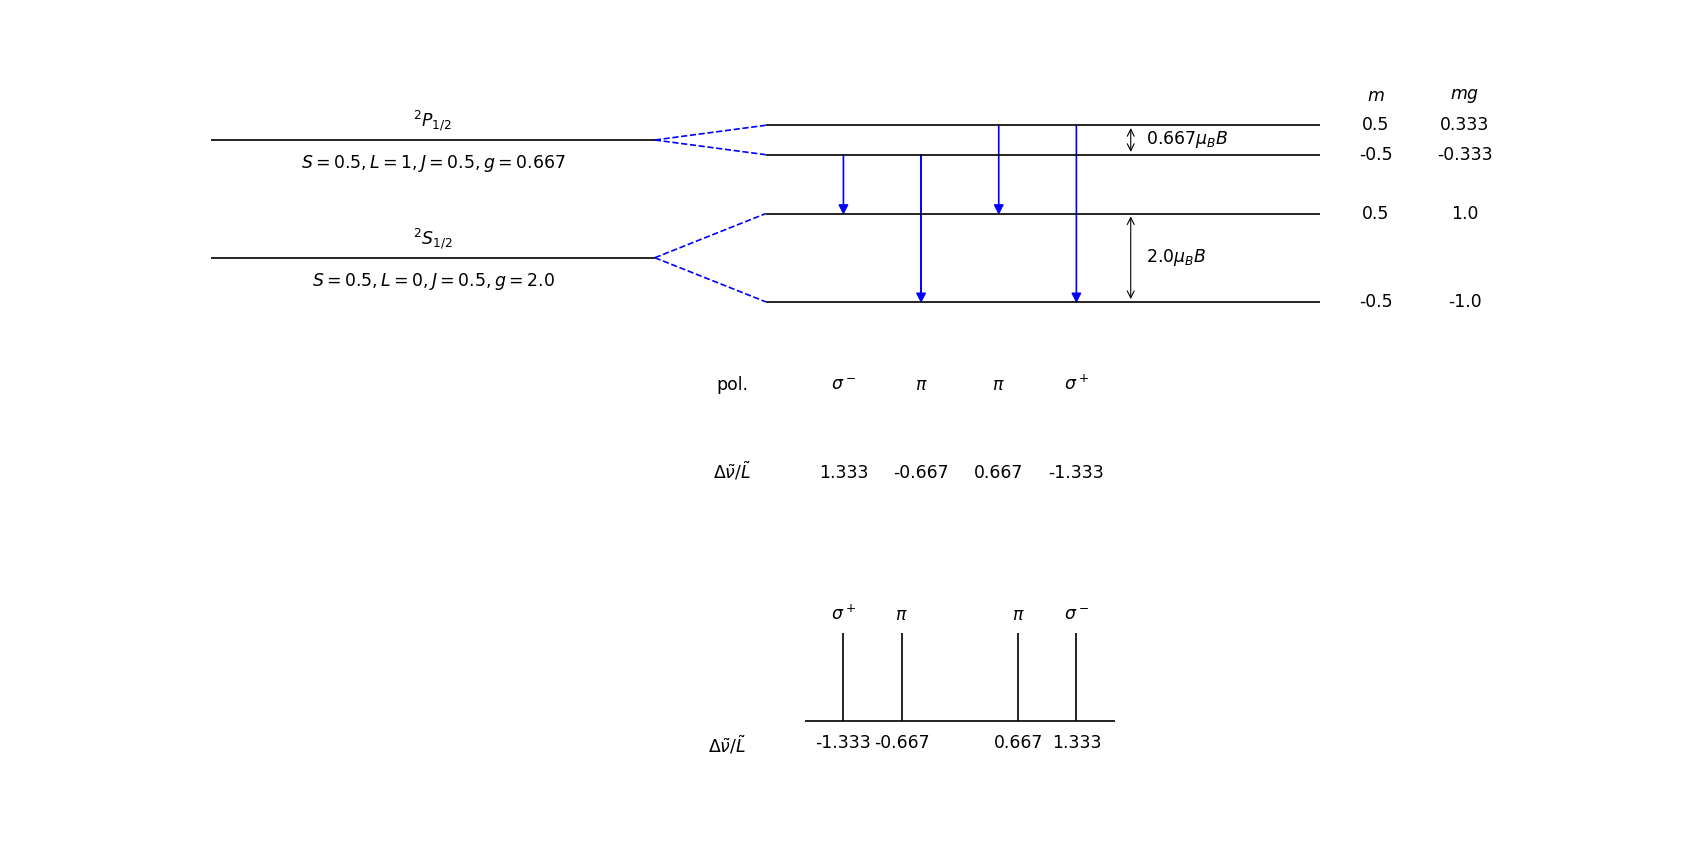
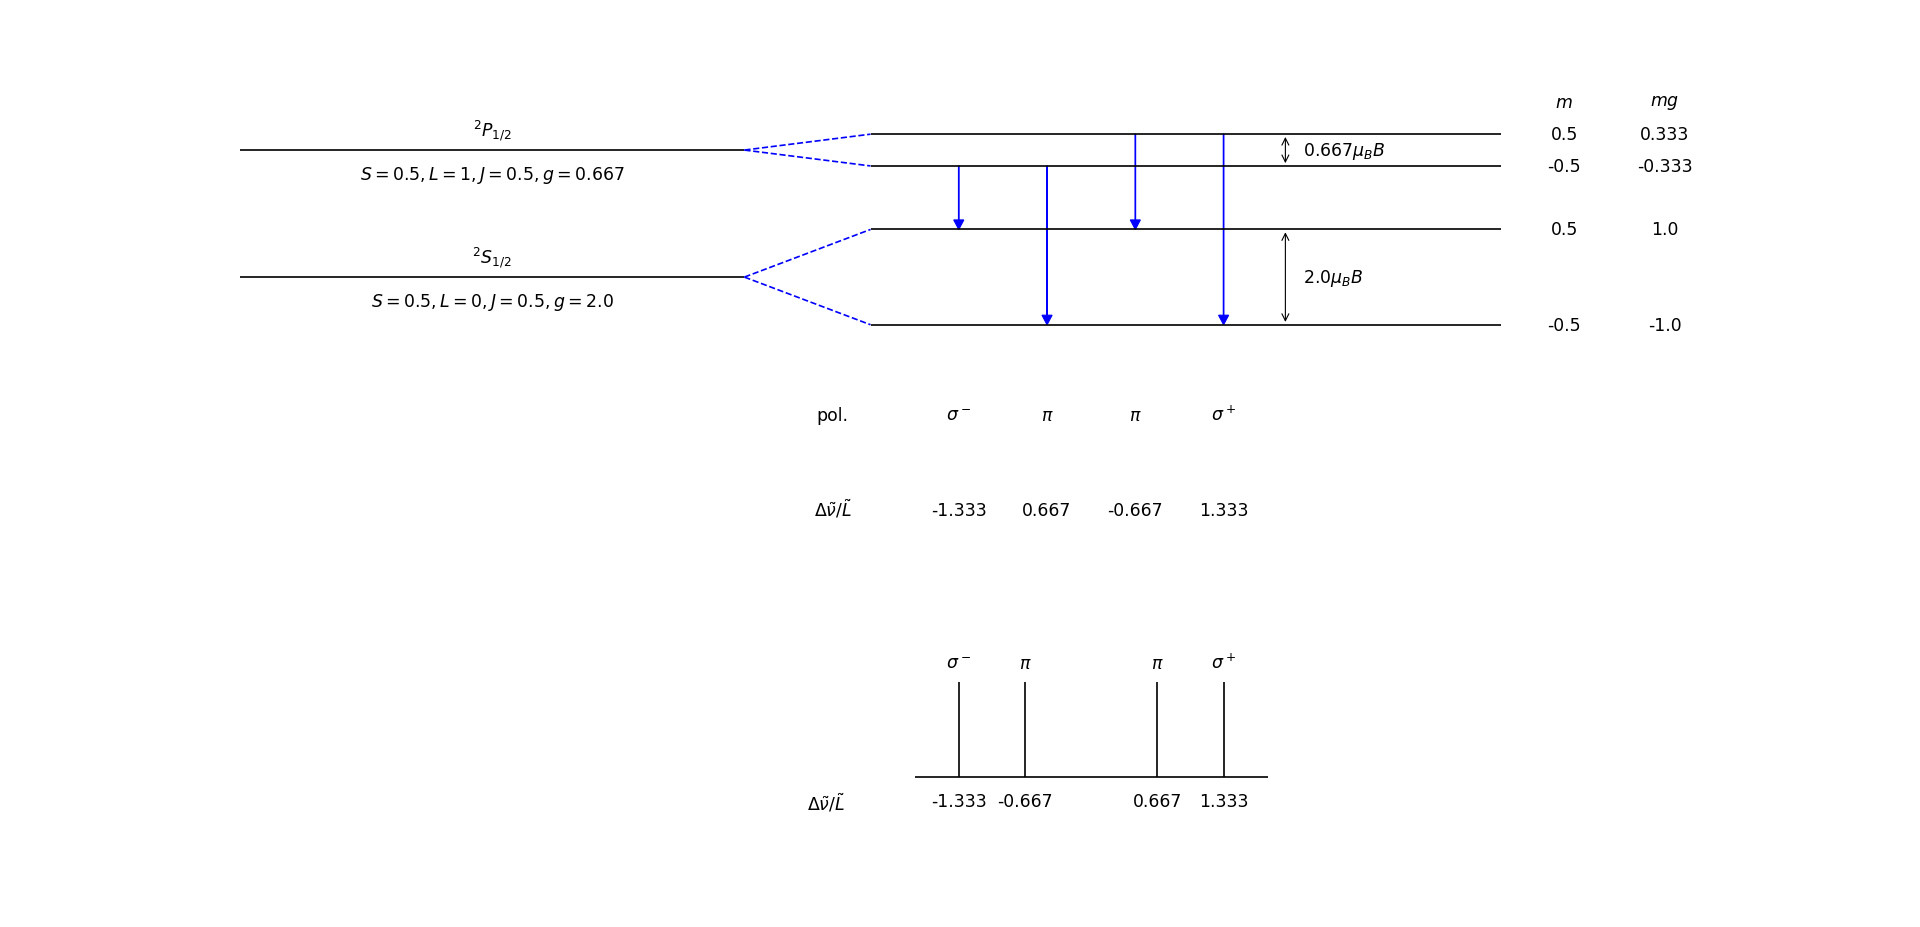
update
Fixed errors

diff --git a/Zeeman_plot.py b/Zeeman_plot.py
@@ -41,8 +41,8 @@ def plot(s1, l1, j1, s2, l2, j2, name1='', name2='', nl1 = '', nl2 = '', detail=
 #                plt.arrow(n*dx, DE+de1, 0, -length, color='b', width=length*0.0005, head_width = length*0.007, head_length=length*0.07, length_includes_head=True)
                 plt.arrow(n*dx, DE+de1, 0, -length, color='b', width=0.005, head_width = 0.08, head_length=DE*0.15, length_includes_head=True)
                 plt.text(n*dx, -DE+de2s[0]-g2, polar, horizontalalignment='center')
-                plt.text(n*dx, -DE+de2s[0]-2*g2, np.round(de2-de1, 3), horizontalalignment='center')
-                d_nu_s.append(de2-de1)
+                plt.text(n*dx, -DE+de2s[0]-2*g2, np.round(de1-de2, 3), horizontalalignment='center')
+                d_nu_s.append(de1-de2)
                 polars.append(polar)
                 
                 n+=1
@@ -143,5 +143,6 @@ if __name__ == '__main__':
 #    plot(1,0,1,1,1,2, name1=r'$\mathrm{6s7s{}^3S_1}$', name2=r'$\mathrm{6s6p{}^3P_2}$')
 #    plt.figure()
 #    plot(0,2,2,0,1,1, name1=r'$\mathrm{6s6d{}^1D_2}$', name2=r'$\mathrm{6s6p{}^1P_1}$')
-    plot(1/2, 1, 1/2, 1/2, 0, 1/2, name1=r'${}^2P_{1/2}$', name2=r'${}^2S_{1/2}$')
+#    plot(1/2, 1, 1/2, 1/2, 0, 1/2, name1=r'${}^2P_{1/2}$', name2=r'${}^2S_{1/2}$')
+    plot(1/2, 1, 3/2, 1/2, 0, 1/2, name1=r'${}^2P_{3/2}$', name2=r'${}^2S_{1/2}$')
     
